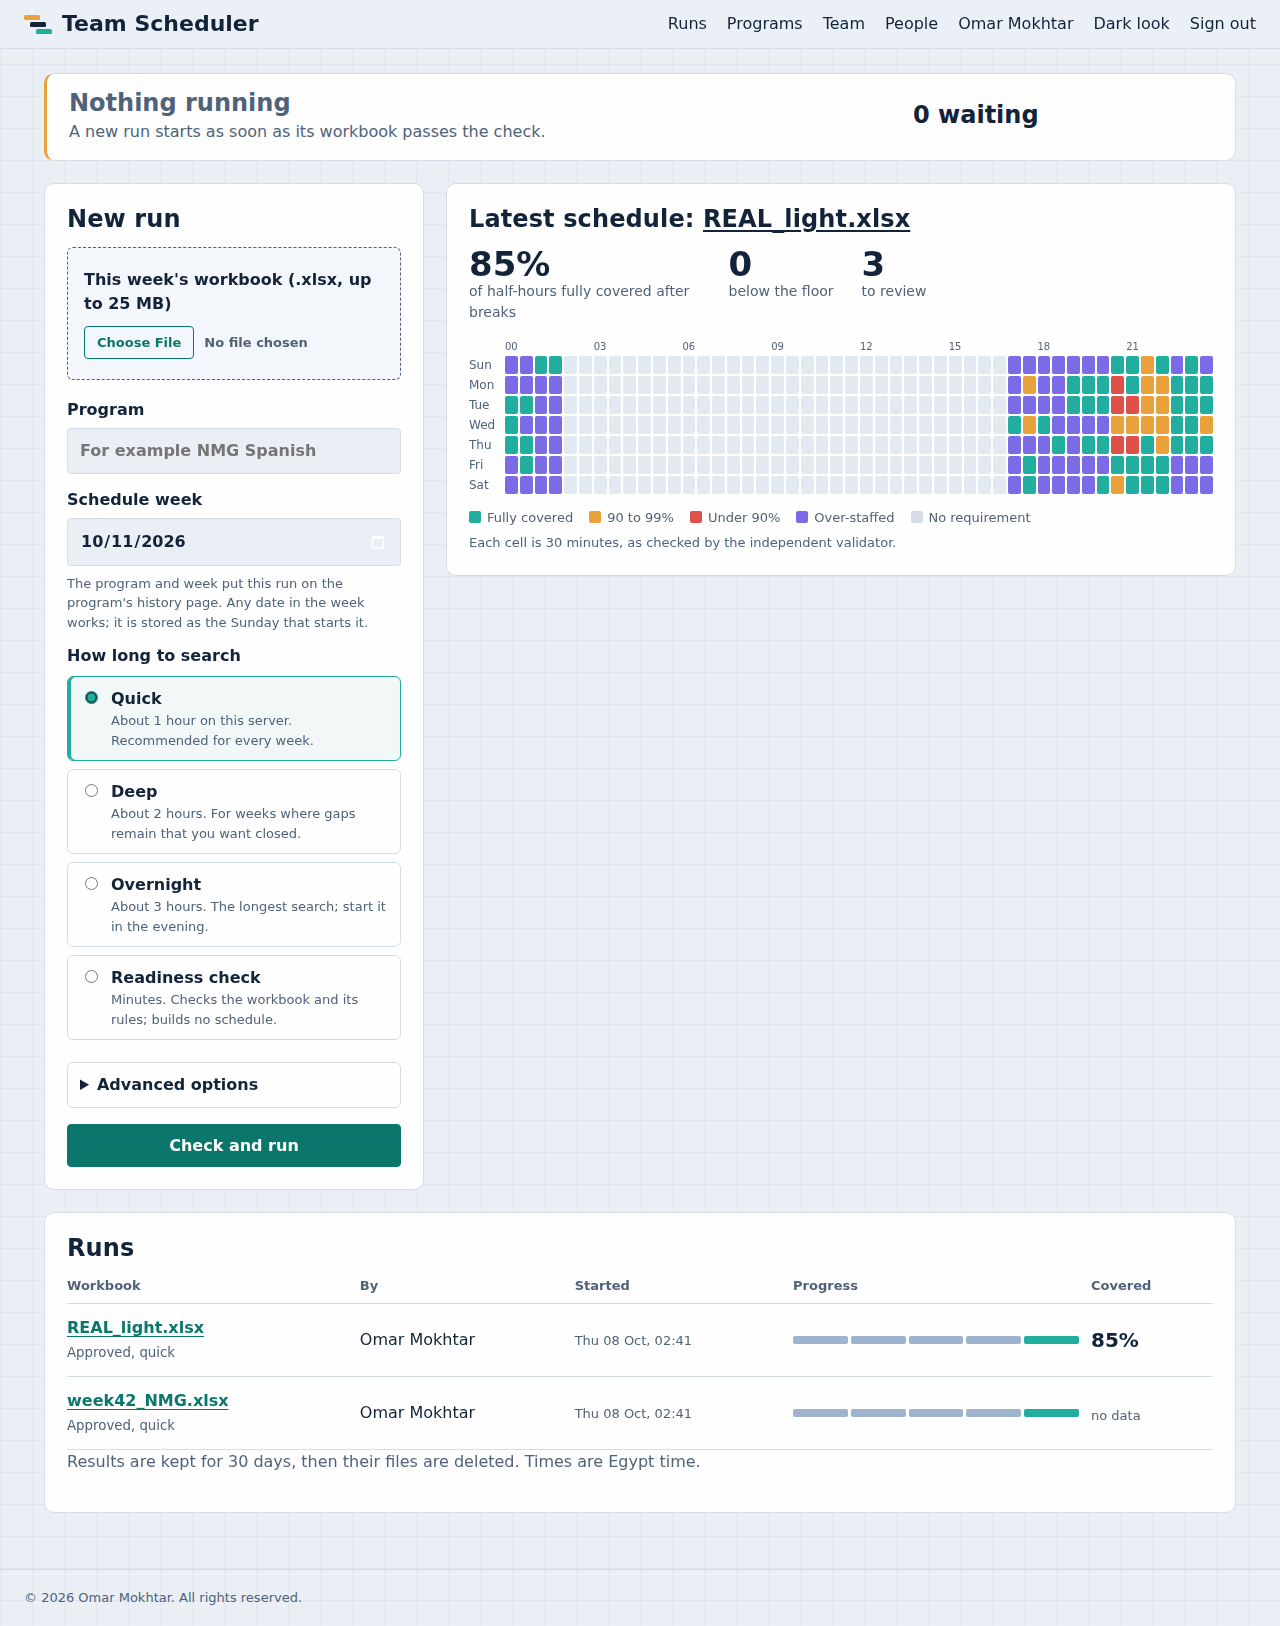
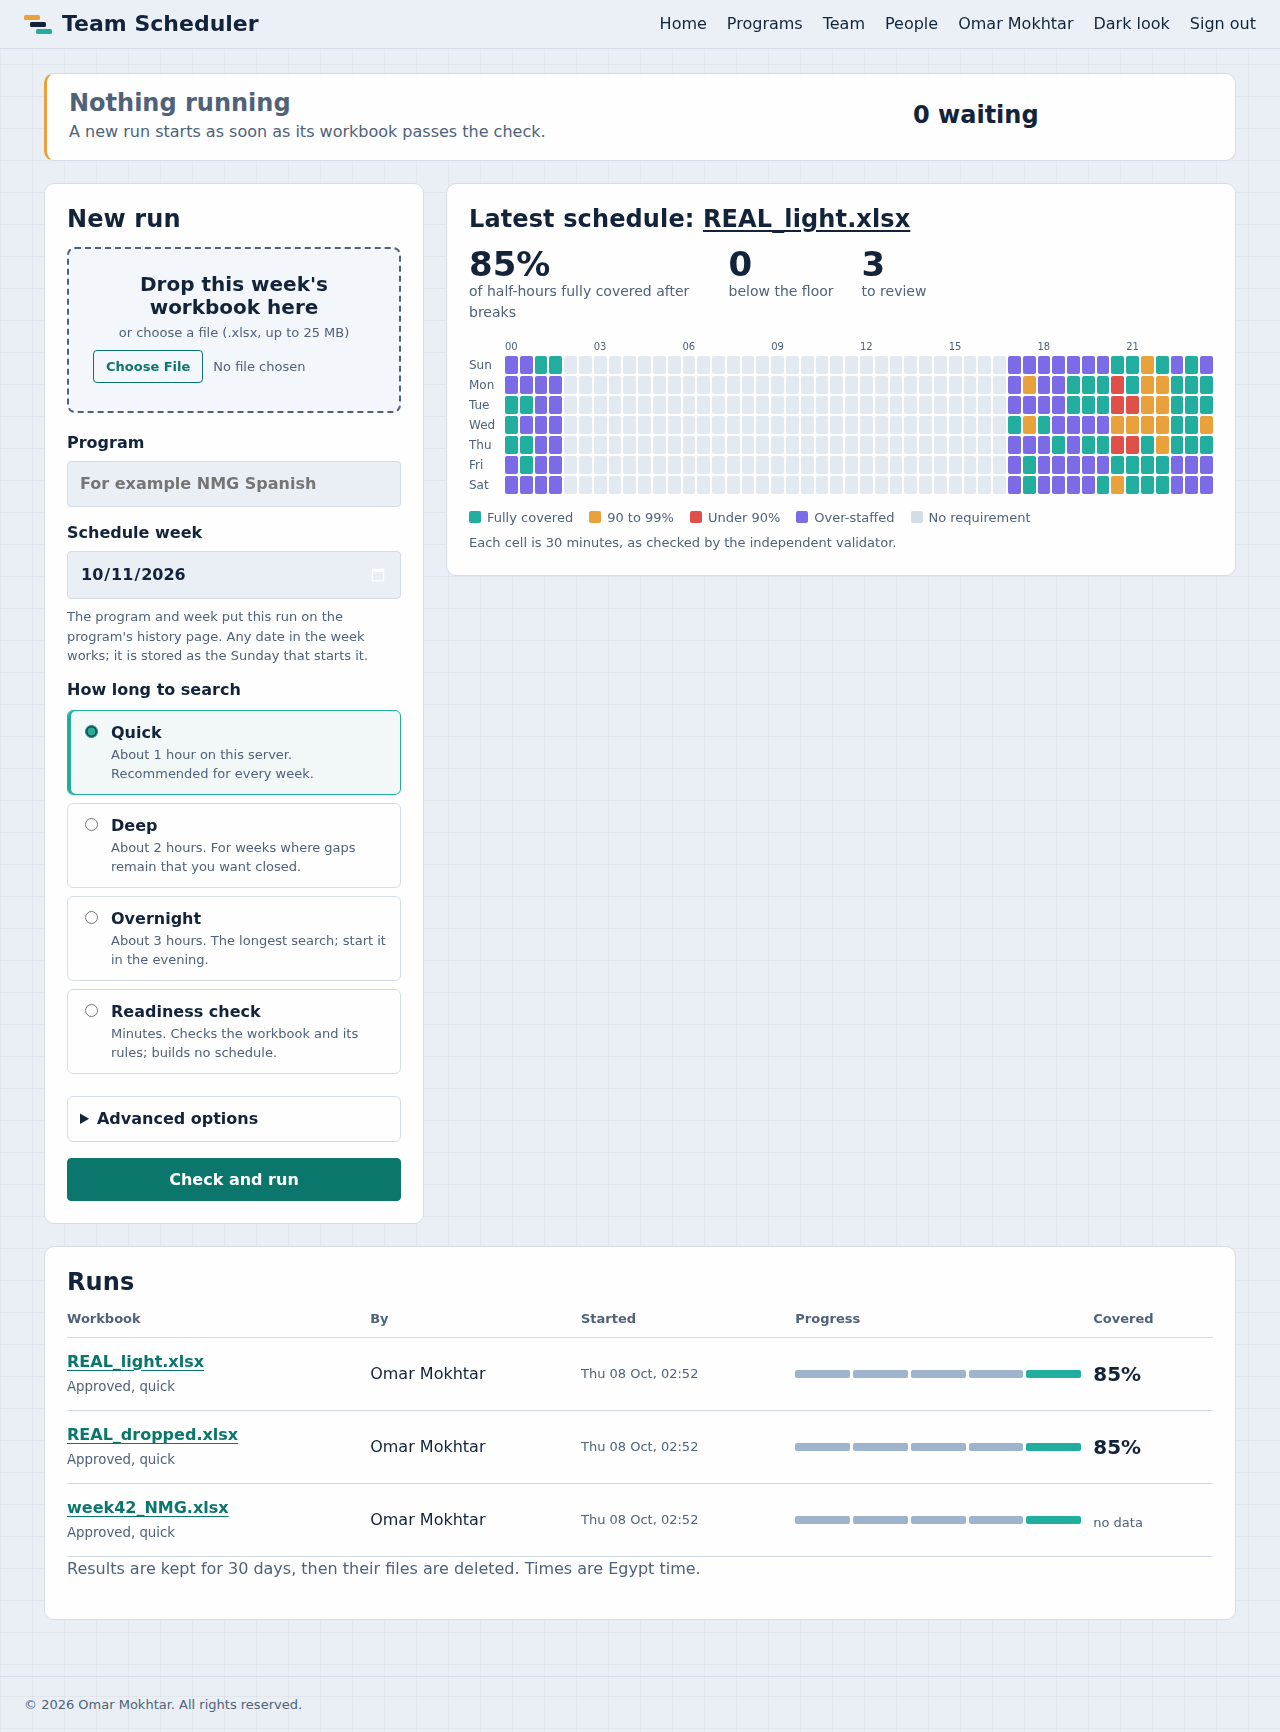
Back and Home on every page (Back returns to the page you came from, else the page's parent); menu says Home; the upload area takes a dropped workbook and refuses other files
Claude-Session: https://claude.ai/code/session_01MH973LepRRvS7jQvRfGiqr

diff --git a/webapp/static/app.js b/webapp/static/app.js
@@ -16,6 +16,61 @@
   }
 })();
 
+// Back goes to the page you came from when you came from this site; the
+// link's own address (the page's parent) is the fallback.
+(function () {
+  "use strict";
+  var back = document.querySelector("[data-back]");
+  if (!back) { return; }
+  back.addEventListener("click", function (e) {
+    if (document.referrer.indexOf(window.location.origin + "/") === 0 && window.history.length > 1) {
+      e.preventDefault();
+      window.history.back();
+    }
+  });
+})();
+
+// The upload area takes a dropped workbook (Excel .xlsx only); the file
+// button still works the usual way.
+(function () {
+  "use strict";
+  var zone = document.querySelector("[data-drop]");
+  if (!zone) { return; }
+  var input = zone.querySelector("input[type=file]");
+  var chosen = zone.querySelector(".chosen");
+  function show(text, bad) {
+    chosen.textContent = text;
+    chosen.classList.toggle("bad", !!bad);
+  }
+  input.addEventListener("change", function () {
+    if (input.files.length) { show(input.files[0].name); }
+  });
+  ["dragenter", "dragover"].forEach(function (kind) {
+    zone.addEventListener(kind, function (e) { e.preventDefault(); zone.classList.add("over"); });
+  });
+  ["dragleave", "drop"].forEach(function (kind) {
+    zone.addEventListener(kind, function () { zone.classList.remove("over"); });
+  });
+  zone.addEventListener("drop", function (e) {
+    e.preventDefault();
+    var files = e.dataTransfer && e.dataTransfer.files;
+    if (!files || !files.length) { return; }
+    if (!/\.xlsx$/i.test(files[0].name)) {
+      show(files[0].name + " is not an Excel workbook (.xlsx)." +
+           (input.files.length ? " Still chosen: " + input.files[0].name : ""), true);
+      return;
+    }
+    input.files = files;
+    show(files[0].name);
+  });
+  // A file dropped anywhere else would open in the browser and leave the site.
+  ["dragover", "drop"].forEach(function (kind) {
+    document.addEventListener(kind, function (e) {
+      if (!zone.contains(e.target)) { e.preventDefault(); }
+    });
+  });
+})();
+
 // Chart tips: any mark with data-tip shows it on hover, or on tap on a phone.
 // The same numbers are in each chart's table view.
 (function () {

diff --git a/webapp/static/app.css b/webapp/static/app.css
@@ -203,8 +203,17 @@ button.quiet { padding: 6px 10px; font-size: 13px; }
 .now-queue p { margin: 2px 0; color: var(--dim); font-size: 14px; }
 .now-queue .big { font: 700 24px/1.1 var(--display); color: var(--paper); margin-bottom: 6px; }
 .board { display: grid; grid-template-columns: minmax(280px, 380px) minmax(0, 1fr); gap: 22px; align-items: start; margin-bottom: 22px; }
-.drop { padding: 20px 16px; margin-bottom: 18px; border: 1px dashed var(--dim); border-radius: 6px; background: var(--well); }
-.drop input[type=file] { display: block; width: 100%; margin-top: 10px; font: inherit; font-size: 13px; color: var(--dim); }
+.drop { display: grid; justify-items: center; gap: 4px; text-align: center; padding: 24px 16px; margin-bottom: 18px;
+  border: 2px dashed var(--dim); border-radius: 8px; background: var(--well); transition: border-color .15s, background .15s; }
+.drop.over { border-color: var(--accent-ink); background: var(--accent-soft); }
+.drop b { font: 700 20px/1.15 var(--display); }
+.drop label { margin: 0; font-weight: 400; font-size: 13px; color: var(--dim); }
+.drop input[type=file] { display: block; width: 100%; margin-top: 8px; font: inherit; font-size: 13px; color: var(--dim); }
+.drop .chosen { font-weight: 600; color: var(--accent-ink); overflow-wrap: anywhere; }
+.drop .chosen.bad { color: var(--gap-ink); }
+.crumbs { display: flex; gap: 10px; align-items: center; margin: 0 0 16px; }
+.crumbs a { padding: 6px 12px; border: 1px solid var(--rail); border-radius: 4px; color: var(--paper); text-decoration: none; font-size: 14px; }
+.crumbs a:hover { border-color: var(--accent-ink); color: var(--accent-ink); }
 .drop input[type=file]::file-selector-button { margin-right: 10px; padding: 8px 12px; border: 1px solid var(--accent-ink);
   border-radius: 4px; background: transparent; color: var(--accent-ink); font: 600 13px var(--text); cursor: pointer; }
 fieldset.modes { border: 0; padding: 0; margin: 0 0 14px; }

diff --git a/webapp/templates/base.html b/webapp/templates/base.html
@@ -17,7 +17,7 @@
   <a class="brand" href="{{ url_for('home') }}"><svg class="brand-mark" viewBox="0 0 28 20" aria-hidden="true"><rect x="0" y="1" width="16" height="5" rx="1.5" class="m1"/><rect x="6" y="8" width="16" height="5" rx="1.5" class="m2"/><rect x="12" y="15" width="16" height="5" rx="1.5" class="m3"/></svg>Team Scheduler</a>
   {% if user %}
   <nav aria-label="Main">
-    <a href="{{ url_for('home') }}">Runs</a>
+    <a href="{{ url_for('home') }}">Home</a>
     <a href="{{ url_for('programs') }}">Programs</a>
     <a href="{{ url_for('team_page') }}">Team</a>
     {% if user.is_admin %}<a href="{{ url_for('admin_users') }}">People</a>{% endif %}
@@ -33,6 +33,7 @@
   {% endif %}
 </header>
 <main>
+{% if user and back %}<p class="crumbs"><a href="{{ back }}" data-back>‹ Back</a><a class="home" href="{{ url_for('home') }}">Home</a></p>{% endif %}
 {% with messages = get_flashed_messages() %}{% for m in messages %}<p class="flash" role="status">{{ m }}</p>{% endfor %}{% endwith %}
 {% block content %}{% endblock %}
 </main>

diff --git a/webapp/templates/dashboard.html b/webapp/templates/dashboard.html
@@ -29,9 +29,12 @@
     {% if queue %}
     <form method="post" action="{{ url_for('submit_run') }}" enctype="multipart/form-data">
       <input type="hidden" name="csrf_token" value="{{ csrf_token() }}">
-      <label class="drop">This week's workbook (.xlsx, up to 25 MB)
-        <input type="file" name="workbook" accept=".xlsx,application/vnd.openxmlformats-officedocument.spreadsheetml.sheet" required>
-      </label>
+      <div class="drop" data-drop>
+        <b>Drop this week's workbook here</b>
+        <label>or choose a file (.xlsx, up to 25 MB)
+          <input type="file" name="workbook" accept=".xlsx,application/vnd.openxmlformats-officedocument.spreadsheetml.sheet" required></label>
+        <span class="chosen" aria-live="polite"></span>
+      </div>
       <div class="tagrow">
         <label>Program
           <input name="program" type="text" list="known-programs" maxlength="80" autocomplete="off" placeholder="For example NMG Spanish" value="{{ prefill_program }}">

diff --git a/webapp/templates/program.html b/webapp/templates/program.html
@@ -4,7 +4,6 @@
 {% block content %}{% set latest = view.latest %}
 <div class="phead">
   <div>
-    <p class="crumb"><a href="{{ url_for('programs') }}">Programs</a></p>
     <h1>{{ name }}</h1>
     <p class="byline">{{ total }} week{{ 's' if total != 1 }} on record. Latest: the week of {{ latest.week }}, from <a href="{{ url_for('run_detail', run_id=latest.run_id) }}">{{ latest.workbook }}</a> ({{ latest.mode|lower }} run by {{ latest.by_name }}{% if latest.runs_that_week > 1 %}; the latest of {{ latest.runs_that_week }} runs that week{% endif %}).</p>
   </div>

diff --git a/webapp/tests/test_ui_playwright.py b/webapp/tests/test_ui_playwright.py
@@ -157,6 +157,33 @@ class InTheBrowser(unittest.TestCase):
         page.get_by_role("button", name="Dark look").click()
         expect(page.locator("html")).to_have_attribute("data-theme", "dark")
 
+    def drop(self, page, name, data=b"PK\x03\x04 dropped"):
+        """Drop a file on the upload area the way a browser does (DataTransfer)."""
+        handle = page.evaluate_handle(
+            """([name, bytes]) => { const t = new DataTransfer();
+                 t.items.add(new File([new Uint8Array(bytes)], name)); return t; }""", [name, list(data)])
+        for kind in ("dragenter", "dragover", "drop"):
+            page.dispatch_event("[data-drop]", kind, {"dataTransfer": handle})
+
+    def test_drop_a_workbook_onto_the_upload_area(self):
+        page = self.page()
+        self.sign_in(page)
+        self.drop(page, "REAL_dropped.xlsx")
+        expect(page.locator("[data-drop] .chosen")).to_have_text("REAL_dropped.xlsx")
+        self.assertEqual(page.evaluate("document.querySelector('input[type=file]').files[0].name"), "REAL_dropped.xlsx")
+        L_SCREENS.mkdir(parents=True, exist_ok=True)
+        page.screenshot(path=str(L_SCREENS / "home_dropped_file.png"))
+        page.get_by_role("button", name="Check and run").click()
+        expect(page.locator("h1")).to_have_text("REAL_dropped.xlsx")
+
+    def test_drop_rejects_other_files(self):
+        page = self.page()
+        self.sign_in(page)
+        self.drop(page, "REAL_first.xlsx")
+        self.drop(page, "notes.pdf")
+        expect(page.locator("[data-drop] .chosen")).to_contain_text("notes.pdf is not an Excel workbook")
+        self.assertEqual(page.evaluate("document.querySelector('input[type=file]').files[0].name"), "REAL_first.xlsx")
+
     def test_advanced_options_fold(self):
         page = self.page()
         self.sign_in(page)

diff --git a/webapp/tests/test_runs.py b/webapp/tests/test_runs.py
@@ -701,6 +701,27 @@ class TheReadinessCheck(unittest.TestCase):
         self.assertIn('name="week_start" type="date" value="2026-10-11"', body)
 
 
+class TheWayAround(unittest.TestCase):
+    """Phase L task 3: Back and Home on every page but home."""
+
+    def test_every_page_has_back_and_home(self):
+        app, store, *_ = make_app(start_worker=False)
+        store.add_user("omar", "Omar", "Owner-pass-123", is_admin=True, must_change=False)
+        client = app.test_client()
+        tok = TOKEN.search(client.get("/login").get_data(as_text=True)).group(1)
+        client.post("/login", data={"username": "omar", "password": "Owner-pass-123", "csrf_token": tok})
+        run_id = seed_week(store, "NMG", "2026-10-11")
+        parents = {f"/runs/{run_id}": "/", "/programs/NMG": "/programs", "/programs": "/", "/team": "/",
+                   "/admin/users": "/", "/account/password": "/"}
+        for url, parent in parents.items():
+            body = client.get(url).get_data(as_text=True)
+            self.assertIn(f'<a href="{parent}" data-back>', body, url)
+            self.assertIn('<a class="home" href="/">Home</a>', body, url)
+        home = client.get("/").get_data(as_text=True)
+        self.assertNotIn("data-back", home)
+        self.assertIn('<a href="/">Home</a>', home)  # the menu's first item
+
+
 class Access(unittest.TestCase):
     def test_downloads_need_login(self):
         app, store, *_ = make_app()

diff --git a/webapp/app.py b/webapp/app.py
@@ -88,6 +88,7 @@ def _secret_key(data_dir: Path) -> str:
     return path.read_text(encoding="utf-8").strip()
 
 
+BACK = {"program": "programs"}  # where Back goes without browser history; every other page: home
 THEMES = ("light", "dark")  # no cookie: follow the device's setting
 EGYPT = timezone(timedelta(hours=3))  # owner's rule: times in Egypt time (UTC+3)
 
@@ -207,8 +208,10 @@ def create_app(config: Dict[str, Any]) -> Flask:
     @app.context_processor
     def _globals() -> Dict[str, Any]:
         theme = request.cookies.get("theme", "")
+        endpoint = request.endpoint or ""
+        back = None if endpoint in ("home", "login", "static") else url_for(BACK.get(endpoint, "home"))
         return {"csrf_token": csrf_token, "copyright": COPYRIGHT, "user": g.get("user"),
-                "theme": theme if theme in THEMES else "",
+                "theme": theme if theme in THEMES else "", "back": back,
                 "status_words": STATUS_WORDS, "label": label, "modes": MODES, "stages": stages, "in_flight": IN_FLIGHT,
                 "when": _when, "run_options": run_options, "option_labels": OPTION_LABELS,
                 "eta_text": eta_text, "duration": duration, "clock": _clock}
